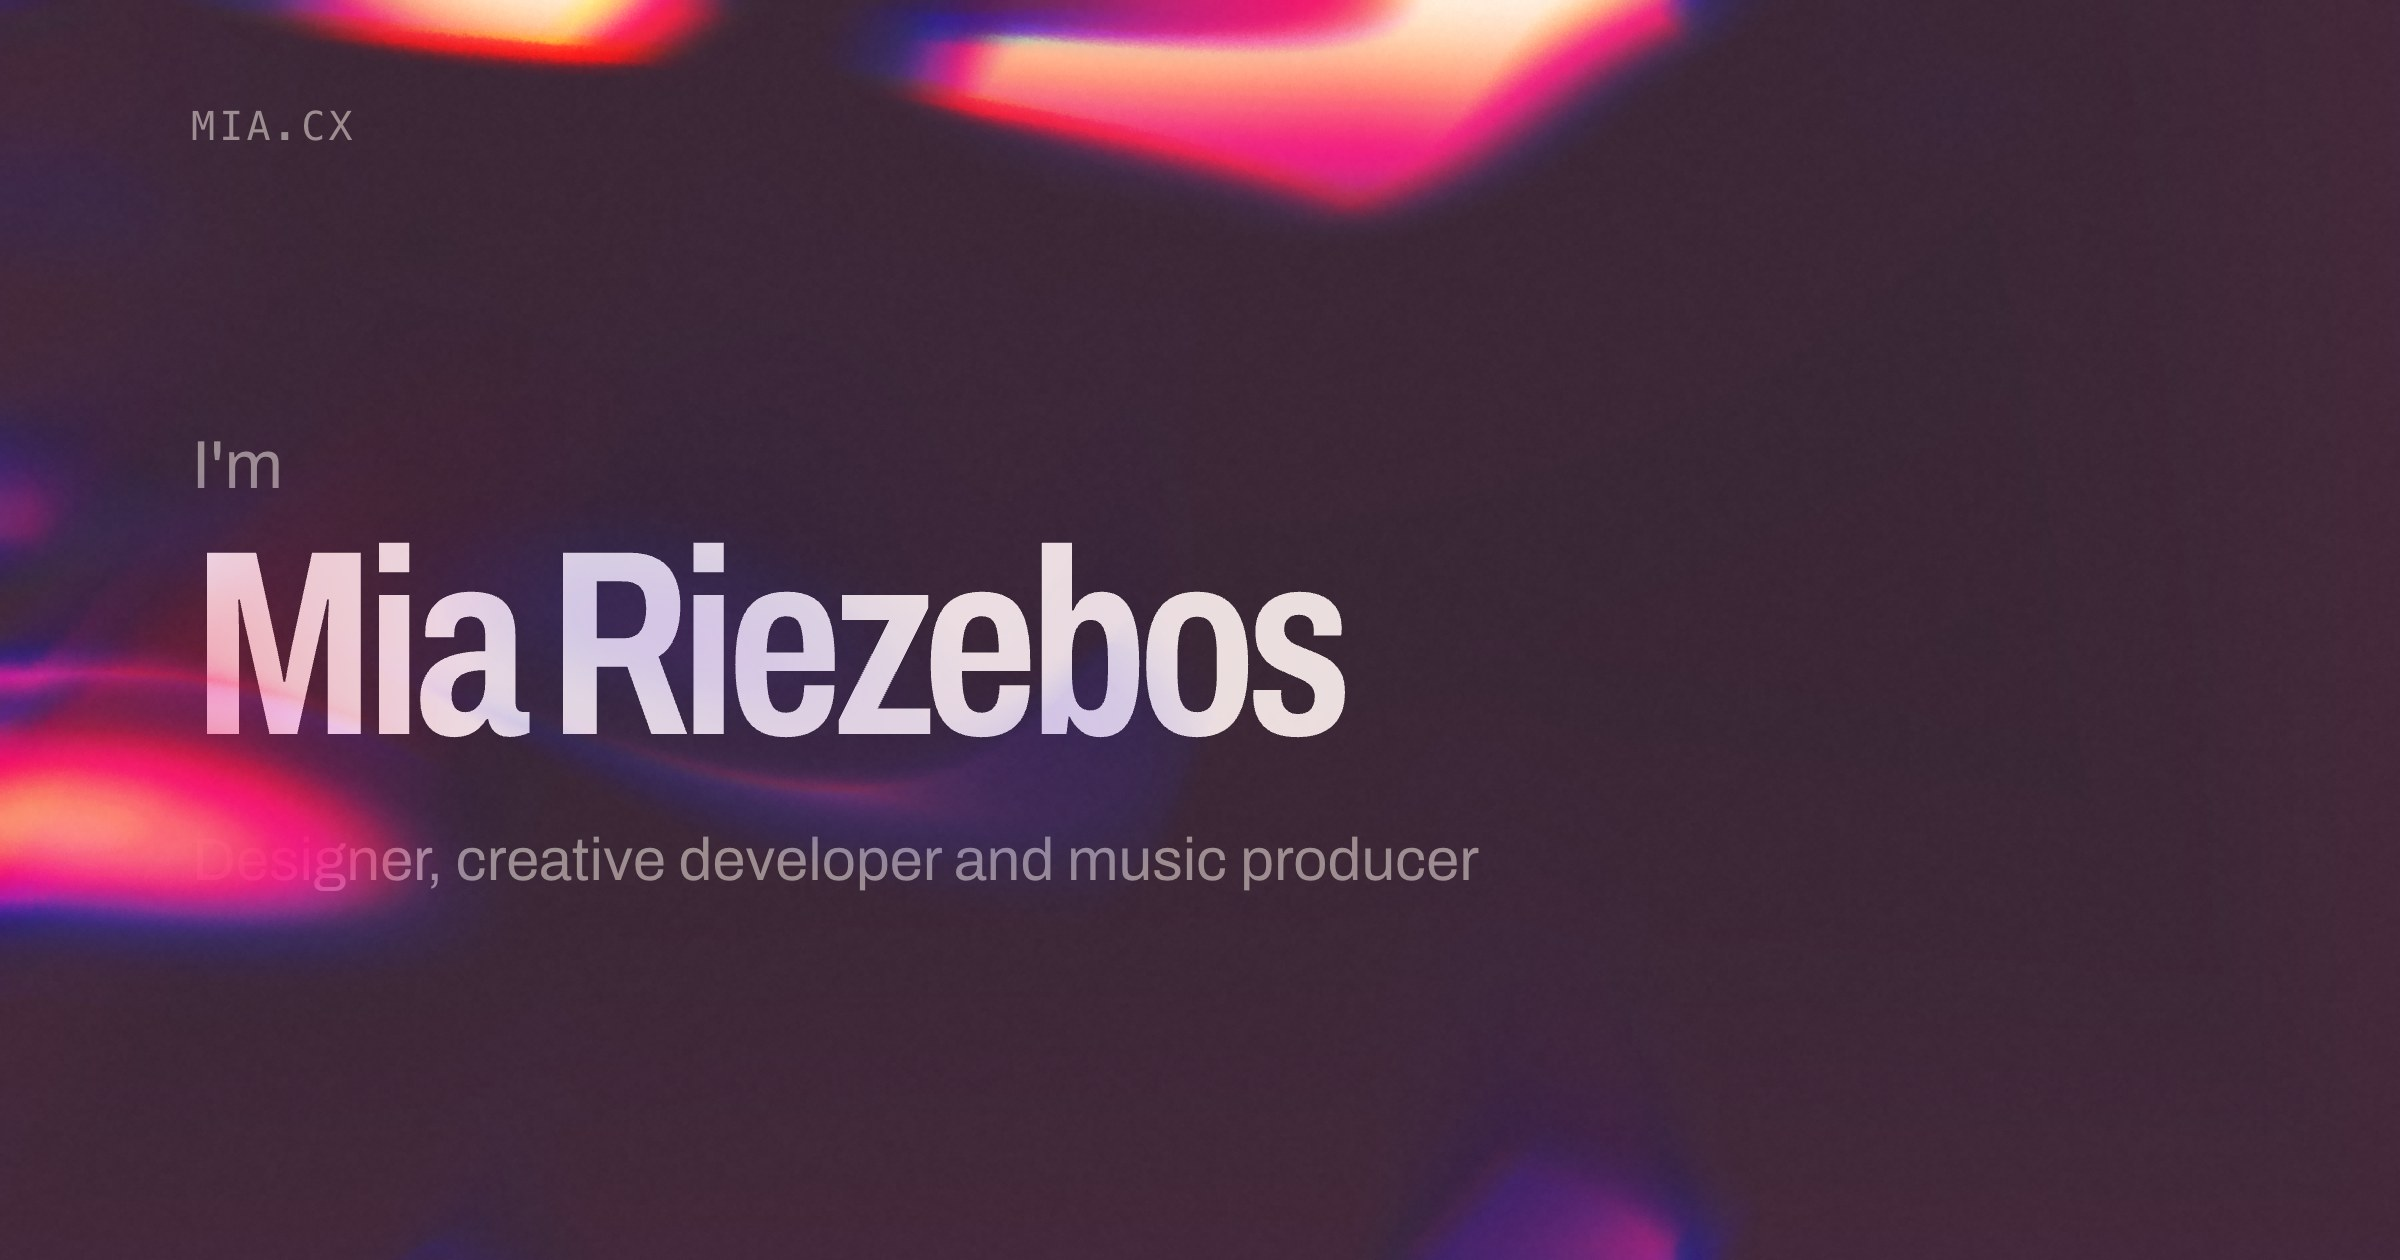
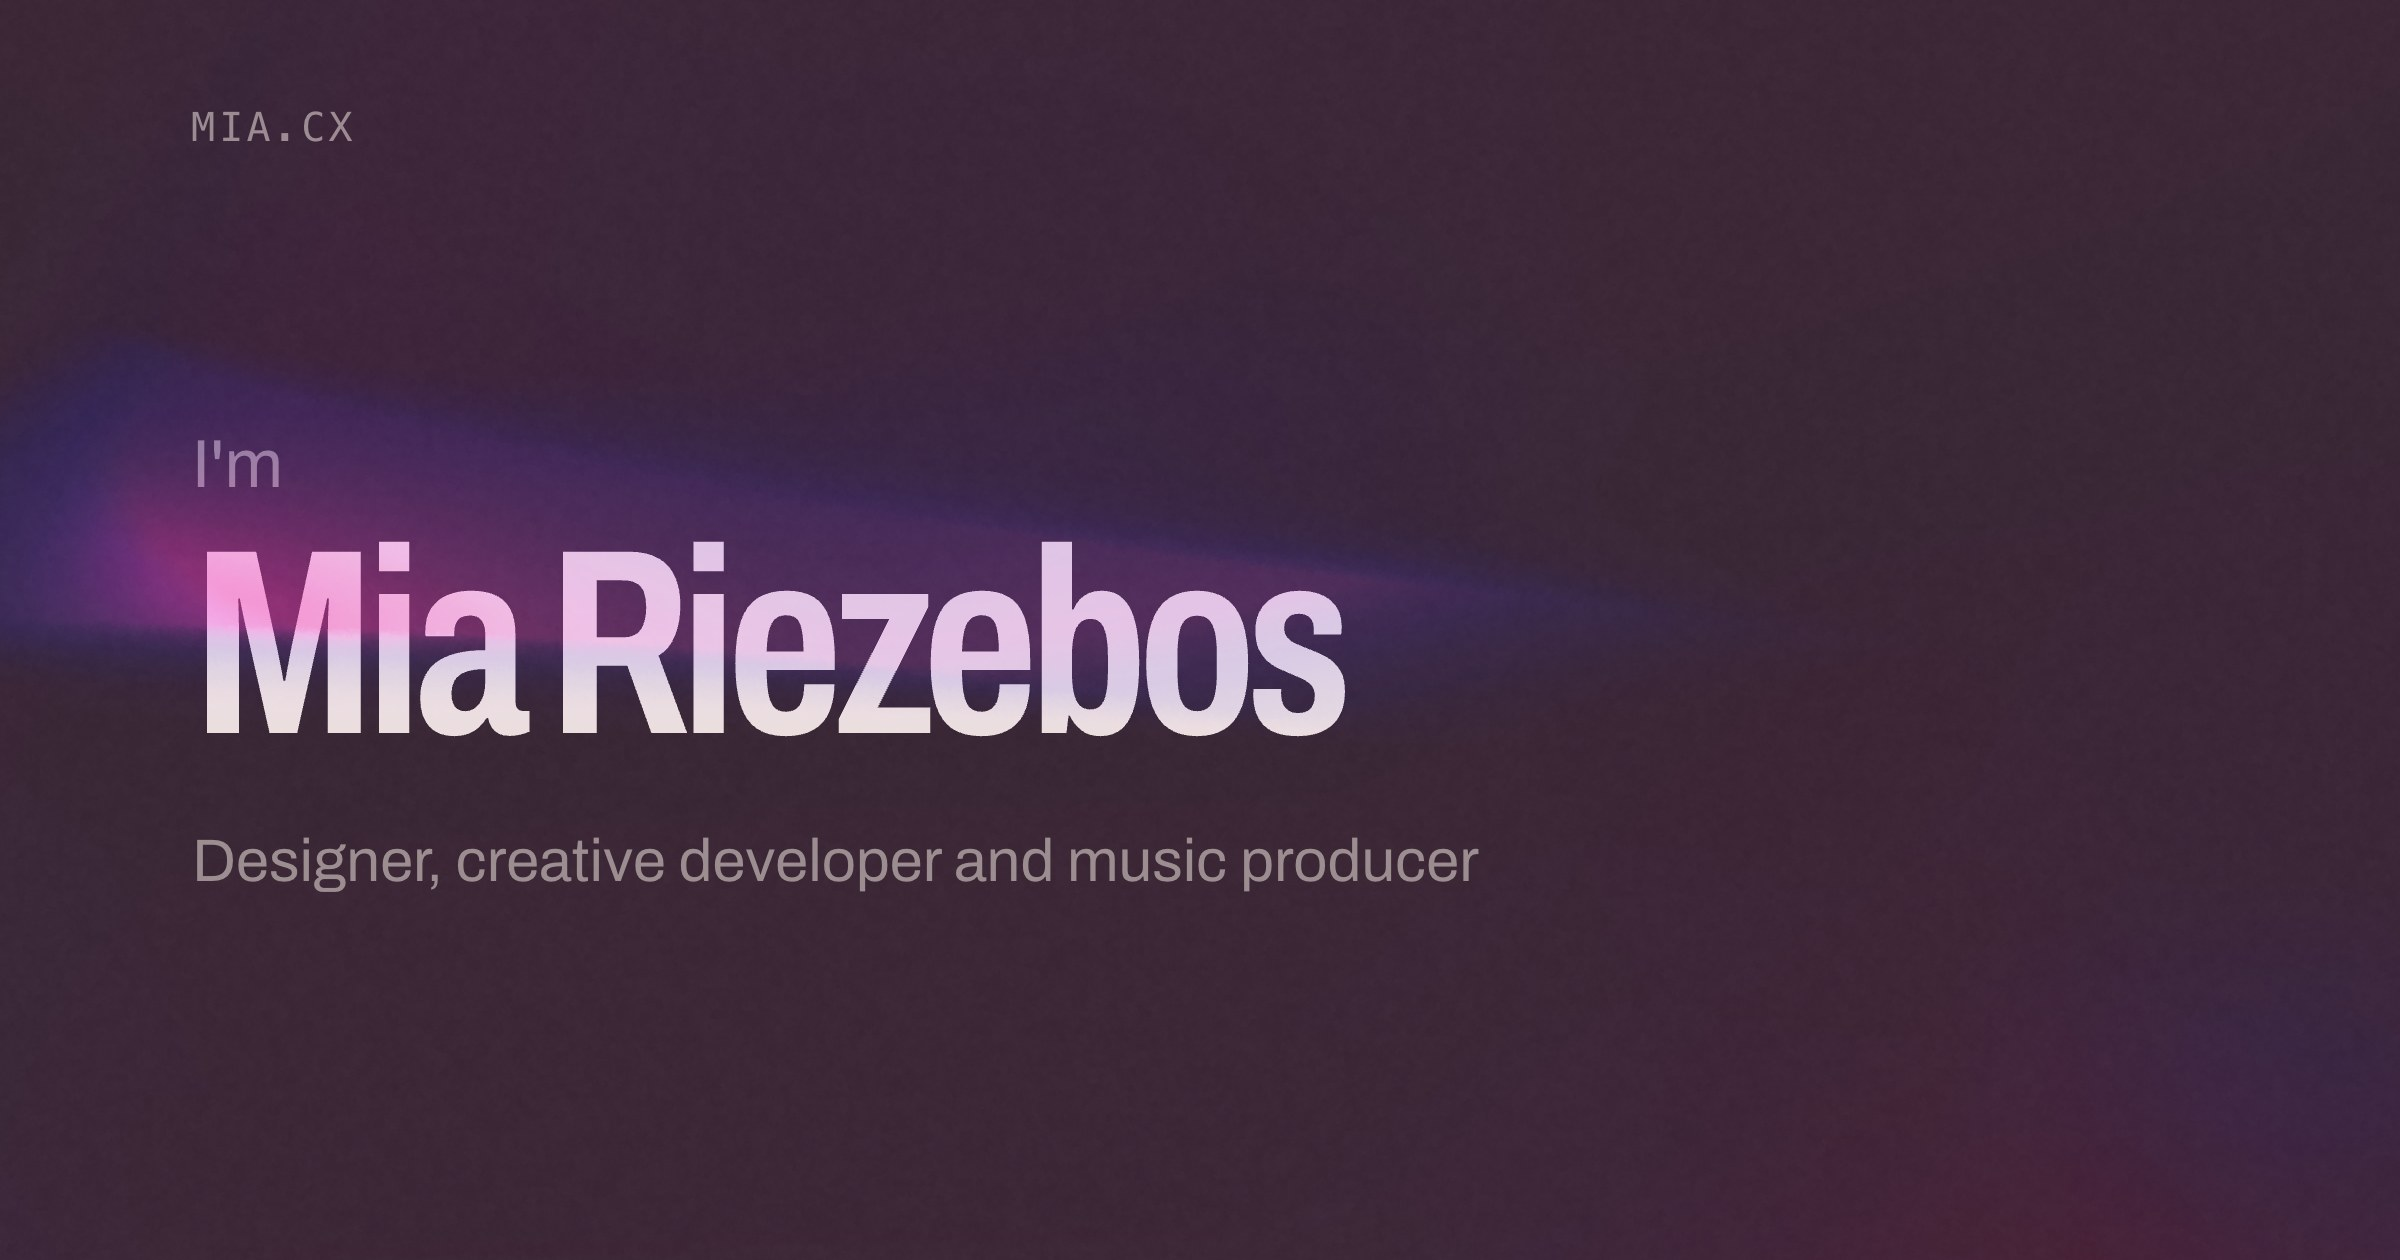
fix(mia.cx): render the share card on a full-size page and crop it
Shrinking the viewport to 1200x630 shrank the full-viewport field with it,
which changed how it rendered. /og now centres the 1200x630 card on a page at
the window's real size, and the script crops the card out at 2x the display's
density.

diff --git a/apps/mia.cx/scripts/share-card.ts b/apps/mia.cx/scripts/share-card.ts
@@ -1,13 +1,15 @@
 /**
- * Renders static/og.jpg, the image link previews show for mia.cx, by screenshotting the /og route
- * at 1200×630 (2× pixel density) in a Chromium you already have open, over the DevTools protocol:
+ * Renders static/og.jpg, the image link previews show for mia.cx, by cropping the 1200×630 card out
+ * of the /og route in a Chromium you already have open, over the DevTools protocol:
  *
  *   pnpm build && pnpm preview
  *   pnpm share-card [base-url] [devtools-url]
  *
  * Start that Chromium with --remote-debugging-port=9222. A real browser draws the field with WebGPU
- * at full resolution; automation browsers and headless software renderers do not. The tab opens in
- * front, since a background tab pauses the field, and closes when done.
+ * at full resolution; automation browsers and headless software renderers do not. The page keeps the
+ * window's real size, since the field is a full-viewport canvas and a shrunken viewport changes how
+ * it renders; the card sits centred on it and only the card is captured, at 2× pixel density. The
+ * tab opens in front, since a background tab pauses the field, and closes when done.
  */
 import { writeFileSync } from 'node:fs';
 import { fileURLToPath } from 'node:url';
@@ -48,7 +50,6 @@ try {
     const run = <T = Record<string, unknown>>(method: string, params = {}) => send<T>(method, params, sessionId);
     await run('Page.enable');
     await run('Page.bringToFront');
-    await run('Emulation.setDeviceMetricsOverride', { width: 1200, height: 630, deviceScaleFactor: 2, mobile: false });
     await run('Page.navigate', { url: `${base}/og` });
 
     // Ready once the field has drawn its first frame and the entrance has finished.
@@ -64,7 +65,24 @@ try {
     }
     // Time for the adaptive resolution to settle at full scale.
     await sleep(6000);
-    const { data } = await run<{ data: string }>('Page.captureScreenshot', { format: 'jpeg', quality: 88 });
+    const { result: box } = await run<{
+        result: { value: { x: number; y: number; width: number; height: number; dpr: number; fits: boolean } };
+    }>('Runtime.evaluate', {
+        expression: `(() => {
+            const r = document.querySelector('[data-card]').getBoundingClientRect();
+            return { x: r.x, y: r.y, width: r.width, height: r.height, dpr: devicePixelRatio,
+                fits: r.x >= 0 && r.y >= 0 && r.right <= innerWidth && r.bottom <= innerHeight };
+        })()`,
+        returnByValue: true,
+    });
+    if (!box.value.fits) throw new Error('the window is smaller than 1200×630; make it bigger');
+    const { x, y, width, height, dpr } = box.value;
+    const { data } = await run<{ data: string }>('Page.captureScreenshot', {
+        format: 'jpeg',
+        quality: 88,
+        // Captured at 2× whatever the display's own density is.
+        clip: { x, y, width, height, scale: 2 / dpr },
+    });
     writeFileSync(out, Buffer.from(data, 'base64'));
     console.log(`share card: ${out}`);
 } finally {

diff --git a/apps/mia.cx/src/routes/og/+page.svelte b/apps/mia.cx/src/routes/og/+page.svelte
@@ -1,7 +1,8 @@
 <script lang="ts">
     /**
-     * The link-preview card, laid out at 1200×630 over the live field. Not linked from anywhere;
-     * scripts/share-card.ts screenshots it into static/og.jpg.
+     * The link-preview card: a 1200×630 box centred on a full-size page, so the field renders at its
+     * real scale around it. Not linked from anywhere; scripts/share-card.ts crops the box into
+     * static/og.jpg.
      */
     import { site } from '$lib/content/site';
 </script>
@@ -11,16 +12,23 @@
     <meta name="robots" content="noindex" />
 </svelte:head>
 
-<main>
-    <p class="domain mono">{site.domain}</p>
-    <div class="words">
-        <p class="lead">I'm</p>
-        <h1>{site.name}</h1>
-        <p class="role">Designer, creative developer and music producer</p>
-    </div>
-</main>
+<div class="stage">
+    <main data-card>
+        <p class="domain mono">{site.domain}</p>
+        <div class="words">
+            <p class="lead">I'm</p>
+            <h1>{site.name}</h1>
+            <p class="role">Designer, creative developer and music producer</p>
+        </div>
+    </main>
+</div>
 
 <style>
+    .stage {
+        display: grid;
+        place-items: center;
+        min-height: 100vh;
+    }
     main {
         /* No z-index: the field passes over the name, as it does on the site. */
         display: grid;
